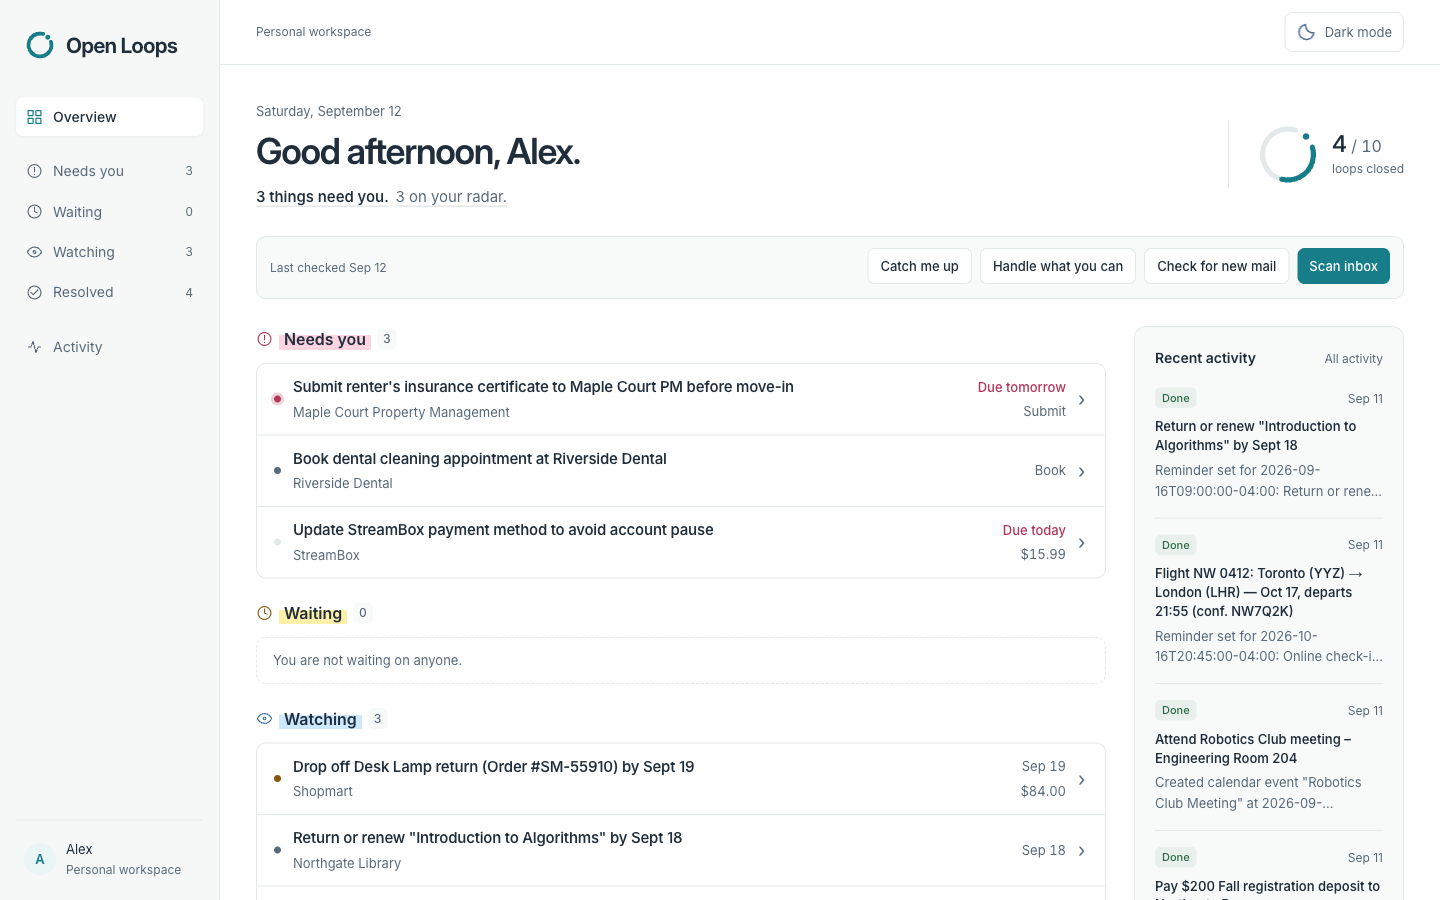
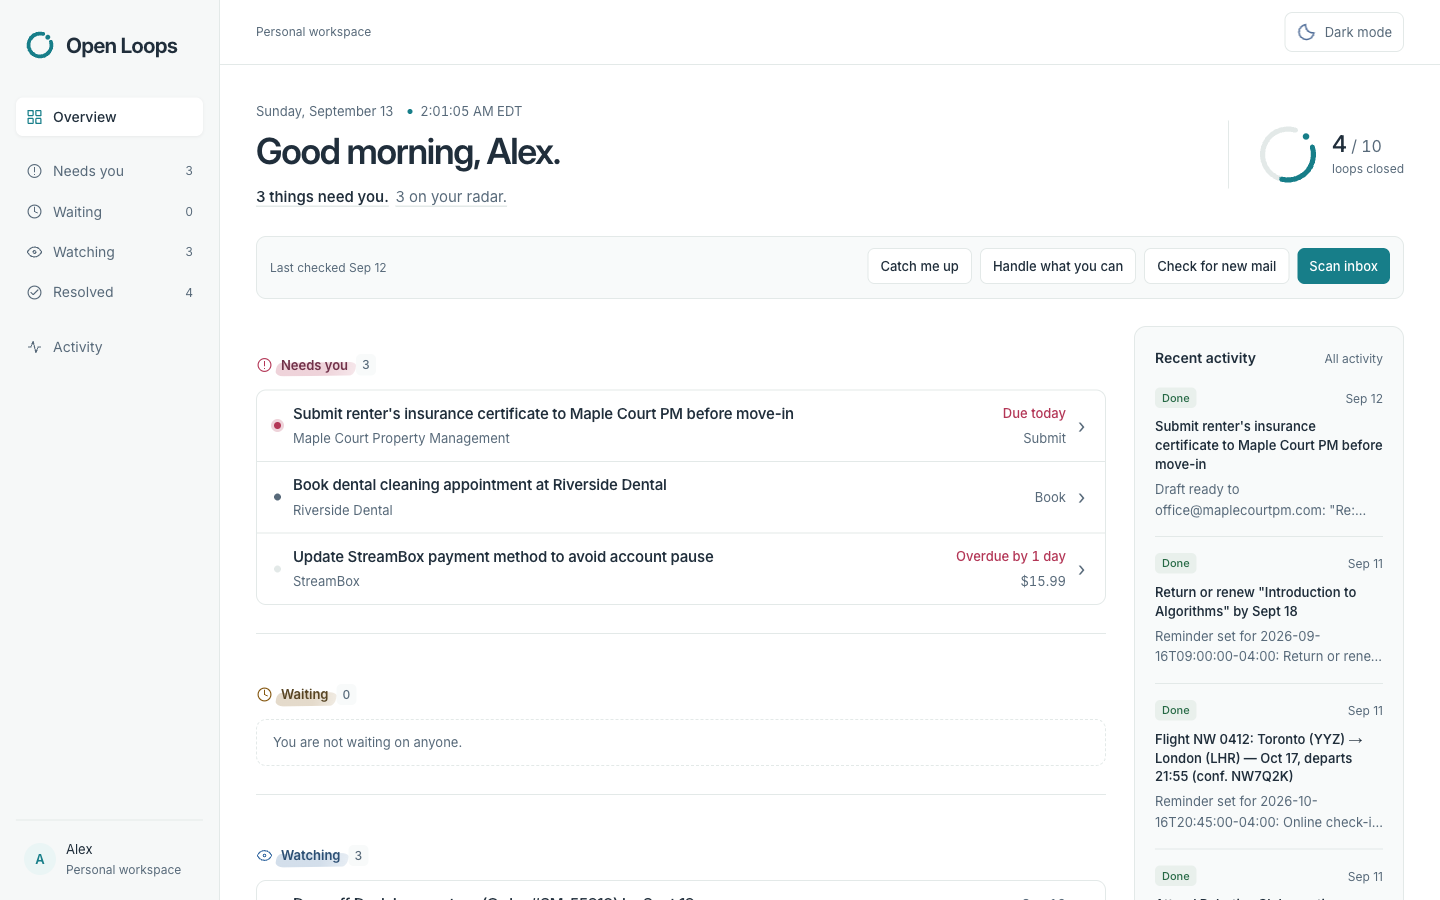
fix(web): draw the state heading highlight as a marker swipe from the state color
Closes #72

Claude-Session: https://claude.ai/code/session_019ubQ7yENbnT3cashjRQMUd

diff --git a/web/app/globals.css b/web/app/globals.css
@@ -1,8 +1,8 @@
 @import "tailwindcss";
 
 /*
- * White and navy reading surfaces, teal brand, and small highlighter strokes on state headings.
- * Status text and icons carry the same meaning when the highlight is not visible.
+ * White and navy reading surfaces, teal brand, and one marker swipe per state heading drawn from
+ * the state color itself. Status text and icons carry the same meaning without the stroke.
  */
 :root {
   --background: #ffffff;
@@ -20,12 +20,8 @@
   --waiting: #855812;
   --watching: #366aa2;
   --resolved: #266945;
+  --highlight-alpha: 22%;
   --resolved-soft: #f3faee;
-  --highlight-attention: #ffd4e1;
-  --highlight-waiting: #fff0a8;
-  --highlight-watching: #cde9ff;
-  --highlight-resolved: #d4f7a5;
-  --highlight-uncertain: #e6defa;
 }
 
 @theme inline {
@@ -52,14 +48,10 @@
   --waiting: #f0d276;
   --watching: #a6ceff;
   --resolved: #b3e786;
+  --highlight-alpha: 30%;
   --resolved-soft: #192d32;
   --surface: #121f34;
   --on-accent: #102c32;
-  --highlight-attention: #653348;
-  --highlight-waiting: #605429;
-  --highlight-watching: #214c69;
-  --highlight-resolved: #355b34;
-  --highlight-uncertain: #4a3c69;
 }
 
 body {
@@ -187,23 +179,18 @@ summary {
 }
 [data-state="needs-you"] {
   --state-color: var(--attention);
-  --state-highlight: var(--highlight-attention);
 }
 [data-state="waiting"] {
   --state-color: var(--waiting);
-  --state-highlight: var(--highlight-waiting);
 }
 [data-state="watching"] {
   --state-color: var(--watching);
-  --state-highlight: var(--highlight-watching);
 }
 [data-state="resolved"] {
   --state-color: var(--resolved);
-  --state-highlight: var(--highlight-resolved);
 }
 [data-state="uncertain"] {
   --state-color: var(--muted);
-  --state-highlight: var(--highlight-uncertain);
 }
 .nav-item:where([data-active="true"][data-state]) > svg {
   color: var(--state-color, var(--accent));
@@ -936,16 +923,27 @@ summary {
   font-weight: 600;
 }
 .section-label {
-  padding-inline: 5px;
-  border-radius: 3px;
+  position: relative;
+  isolation: isolate;
+  padding-inline: 2px;
+  color: color-mix(in srgb, var(--state-color) 55%, var(--foreground));
+}
+/* One marker swipe: the state's own ink at low alpha, low across the x-height, a little past
+   the word, slightly skewed, fading as a pen would. */
+.section-label::before {
+  content: "";
+  position: absolute;
+  z-index: -1;
+  inset: 42% -0.35em -6% -0.3em;
+  border-radius: 0.35em 0.6em 0.4em 0.7em / 0.5em 0.3em 0.6em 0.4em;
+  transform: skewX(-9deg) rotate(-0.8deg);
+  transform-origin: left bottom;
   background: linear-gradient(
-    transparent 36%,
-    var(--state-highlight) 36%,
-    var(--state-highlight) 92%,
-    transparent 92%
+    90deg,
+    color-mix(in srgb, var(--state-color) var(--highlight-alpha), transparent) 0%,
+    color-mix(in srgb, var(--state-color) var(--highlight-alpha), transparent) 62%,
+    color-mix(in srgb, var(--state-color) calc(var(--highlight-alpha) * 0.55), transparent) 100%
   );
-  box-decoration-break: clone;
-  -webkit-box-decoration-break: clone;
 }
 .section-heading svg {
   width: 17px;
